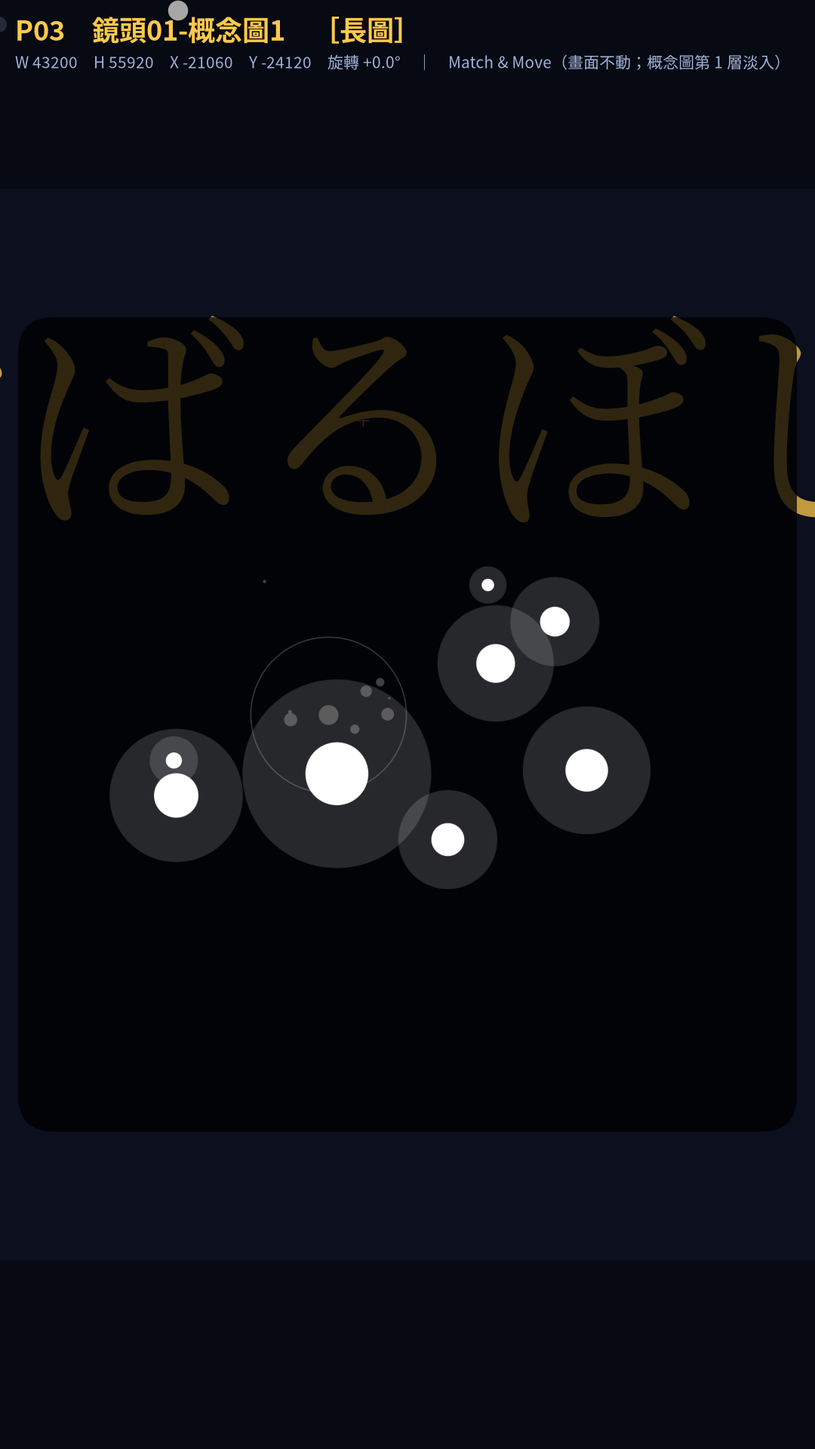
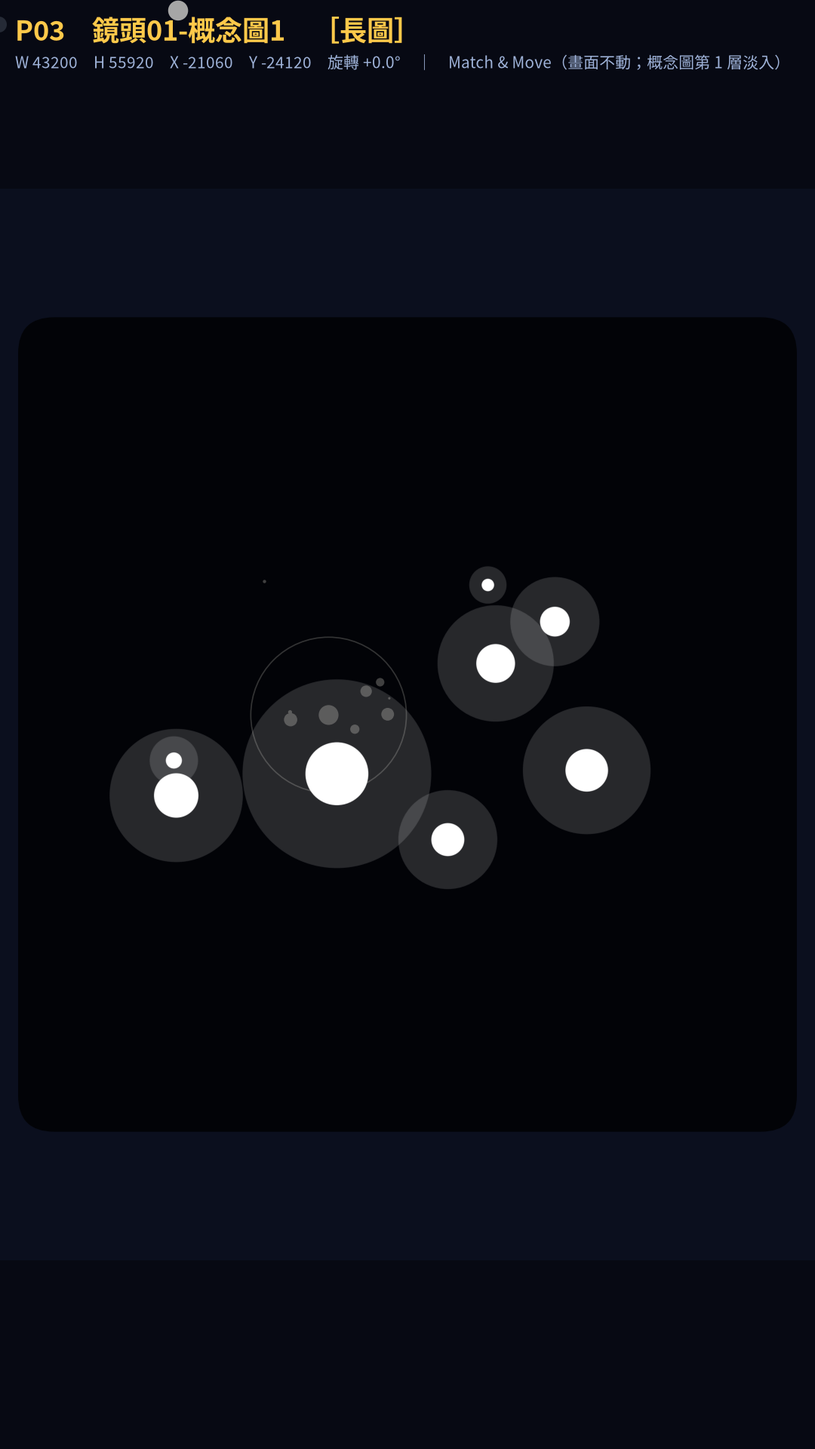
每集製作 SOP＋canva_ops.py：把長圖⇄北盤轉場、概念圖定格頁、Canva 操作變成固定流程
- 每集製作SOP.md：分工、repo 端生成順序、頁面結構規則（同鏡多頁、換組倒放、
  概念圖定格頁、每頁固定元素）、Claude 的 Canva 操作順序與連接器限制、
  存檔後手工收尾、每集檢查表
- canva_ops.py：由 Canva頁面參數.json＋媒體ID.json 產生每頁 edit-design 操作
- A-05_Canva媒體ID.json：本集已匯入的圖層／山／背景／概念圖 media id
- gen_canva_pages：概念圖頁不放星名標籤
- 使用說明：長圖⇄北盤回程改為倒放，指向 SOP

Claude-Session: https://claude.ai/code/session_01StZzE6tWpXcy8oYxpE6GNa

diff --git a/02_製作流程SOP/canva_ops.py b/02_製作流程SOP/canva_ops.py
@@ -1,0 +1,122 @@
+# -*- coding: utf-8 -*-
+"""萬國星空｜把 {EP}_Canva頁面參數.json 轉成 Canva 連接器（edit-design）的操作清單
+
+給 Claude 用：每一頁輸出一批 operations，照順序送進 edit-design 即可。
+媒體 ID 記在 05_素材/{集}/_v4大畫布/{EP}_Canva媒體ID.json（上傳一次、之後都讀這份）：
+
+  {"long": [L1..L4 的 media id], "north": [...], "south": [...],
+   "mountain": "MAD4KTwSGtw", "background": "MAHWs5D_MpY",
+   "concept": {"C-A05-01_六連星_星點層_透明.png": "MAHW...", ...}}
+
+用法：
+  python3 canva_ops.py A-05 --pages 3,4,5 --ids 3=PBxxx,4=PByyy    # 印出這幾頁的 ops（JSON）
+  python3 canva_ops.py A-05 --list                                  # 列出頁序＋每頁要放什麼
+
+注意（Canva 連接器的脾氣，見 每集製作SOP.md 五）：
+  - insert_fill 放山的剪影後，Canva 會把內圖框多裁 1px；要再送一次 crop_media（mountain_crop）
+  - update_fill 換圖後內圖框會被放大；要再送一次 crop_media（fill_crop）
+  - add_text 之後要用回傳的 locator 再送 format_text（label_format）
+"""
+import os, sys, csv, json, glob, argparse, unicodedata
+
+HERE = os.path.dirname(os.path.abspath(__file__))
+MOUNT = dict(left=-212.30305796440007, top=1622.4420974142777,
+             width=1939.0832424885327, height=300.5579025857226)   # 團隊模板的山（全集共用）
+LABEL_MIN, LABEL_MAX = 36, 96          # 原生標籤字級上下限（大特寫時標籤會算到幾百 px）
+
+
+def folder(ep):
+    base = os.path.dirname(HERE)
+    hit = glob.glob(os.path.join(base, "05_素材", "*", "_v4大畫布", f"{ep}_畫布資訊.json"))
+    if not hit:
+        sys.exit(f"找不到 {ep} 的 _v4大畫布")
+    return os.path.dirname(hit[0])
+
+
+def text_w(t, f):
+    return sum(1.0 if unicodedata.east_asian_width(c) in "WF" else 0.62 for c in t) * f + 0.6 * f
+
+
+def page_ops(pg, pid, media, labels=()):
+    """一頁的完整 ops：背景 → 天空四層 → 山 → 原生標籤 → 概念圖框 → 概念圖 → 備註"""
+    grp = {"長圖": "long", "北盤": "north", "南盤": "south"}[pg["group"]]
+    ops = [{"type": "update_fill", "locator_id": pid, "asset_type": "image",
+            "asset_id": media["background"], "alt_text": "背景漸層"}]
+    for i, a in enumerate(media[grp], 1):
+        ops.append({"type": "insert_fill", "page_id": pid, "asset_type": "image", "asset_id": a,
+                    "alt_text": f"{pg['group']} L{i}", "left": pg["left"], "top": pg["top"],
+                    "width": pg["width"], "height": pg["height"], "rotation": pg["rotation"]})
+    ops.append({"type": "insert_fill", "page_id": pid, "asset_type": "image",
+                "asset_id": media["mountain"], "alt_text": "山的剪影", **MOUNT})
+    for lb in labels:
+        f = min(max(int(lb["字級px"]), LABEL_MIN), LABEL_MAX)
+        X, Y = int(lb["中心X px"]), int(lb["中心Y px"])
+        w = round(text_w(lb["文字"], f))
+        if X - w / 2 < -0.3 * w or X + w / 2 > 1080 + 0.3 * w:     # 大半在畫面外就不放
+            continue
+        ops.append({"type": "add_text", "page_id": pid, "text": lb["文字"],
+                    "left": X - w / 2, "top": Y - 0.6 * f, "width": w})
+    ov = pg.get("overlay") or []
+    if ov and pg.get("panel"):
+        P = pg["panel"]
+        h = round(P["height"], 1)
+        ops.append({"type": "insert_shape", "page_id": pid, "left": P["left"],
+                    "top": round(P["top"], 1), "width": P["width"], "height": h,
+                    "path": f"M0 0H{P['width']}V{h}H0Z", "view_box_width": P["width"],
+                    "view_box_height": h, "color": P["color"], "opacity": P["opacity"],
+                    "corner_rounding": P["radius"], "stroke_weight": 0})
+    for o in ov:
+        ops.append({"type": "insert_fill", "page_id": pid, "asset_type": "image",
+                    "asset_id": media["concept"][o["file"]], "alt_text": o["file"][:-4],
+                    "left": o["left"], "top": o["top"], "width": o["width"], "height": o["height"]})
+    note = [pg["title"], f"圖層組：{pg['group']}｜W {pg['width']:.0f} H {pg['height']:.0f} "
+                         f"X {pg['left']:.0f} Y {pg['top']:.0f} 旋轉 {pg['rotation']:+.1f}°",
+            f"與上一頁：{pg.get('trans', '')}"]
+    if pg.get("notes"):
+        note.append("旁白：" + pg["notes"])
+    if ov:
+        note.append("概念圖：" + "＋".join(o["file"].replace("_透明.png", "") for o in ov))
+    ops.append({"type": "replace_speaker_notes", "page_id": pid, "notes": "\n".join(note)})
+    return ops
+
+
+def mountain_crop(locator):
+    return {"type": "crop_media", "locator_id": locator, "left": 0, "top": 0,
+            "width": MOUNT["width"], "height": MOUNT["height"]}
+
+
+def fill_crop(locator, width, height):
+    return {"type": "crop_media", "locator_id": locator, "left": 0, "top": 0,
+            "width": width, "height": height}
+
+
+def label_format(locator, size, color):
+    return {"type": "format_text", "locator_id": locator,
+            "formatting": {"font_size": min(max(int(size), LABEL_MIN), LABEL_MAX),
+                           "color": color, "text_align": "center", "line_height": 1.2}}
+
+
+if __name__ == "__main__":
+    ap = argparse.ArgumentParser()
+    ap.add_argument("ep")
+    ap.add_argument("--pages", default="")
+    ap.add_argument("--ids", default="", help="頁=Canva page id，逗號分隔")
+    ap.add_argument("--list", action="store_true")
+    a = ap.parse_args()
+    d = folder(a.ep)
+    pages = {p["page"]: p for p in json.load(open(os.path.join(d, f"{a.ep}_Canva頁面參數.json"),
+                                                 encoding="utf-8"))}
+    if a.list:
+        for n, p in pages.items():
+            ov = "＋".join(o["file"] for o in p.get("overlay") or [])
+            print(n, p["title"], p["group"], p.get("trans", ""), ov)
+        sys.exit()
+    media = json.load(open(os.path.join(d, f"{a.ep}_Canva媒體ID.json"), encoding="utf-8"))
+    labs = list(csv.DictReader(open(os.path.join(d, f"{a.ep}_逐頁標籤座標.csv"),
+                                    encoding="utf-8-sig")))
+    ids = dict(kv.split("=") for kv in a.ids.split(",") if kv)
+    out = {}
+    for n in [int(x) for x in a.pages.split(",") if x]:
+        out[n] = page_ops(pages[n], ids.get(str(n), f"<page {n}>"), media,
+                          [lb for lb in labs if int(lb["頁"]) == n])
+    print(json.dumps(out, ensure_ascii=False))

diff --git a/02_製作流程SOP/gen_canva_pages.py b/02_製作流程SOP/gen_canva_pages.py
@@ -301,6 +301,8 @@ class Pages:
         """本頁要開的標籤層：一頁兩用時取下一鏡；鏡頭最後一格可用 labels_end 換層"""
         if pg.get("transition"):
             return []
+        if pg.get("overlay_files"):               # 概念圖頁不放星名：半透明框會透出來、和圖上的字打架
+            return []
         if pg.get("labels_from") and not pg.get("shot_next"):
             return Pages.label_names(pg["labels_from"])
         sh = pg.get("shot_next") or pg["shot"]

diff --git a/02_製作流程SOP/每集製作SOP.md b/02_製作流程SOP/每集製作SOP.md
@@ -1,0 +1,118 @@
+# 萬國星空｜每集製作 SOP（A-05 起適用，之後每一集照做）
+
+> 一句話：**先把素材、腳本、逐字稿在 repo 裡生成優化版 → 產生 Canva 逐頁表 → Claude 在 Canva 排頁 → 你看預覽說「存檔」→ 你做最後三件手工。**
+> 表格欄位怎麼讀、手動照表做頁：見 `Canva逐頁製作表_使用說明.md`。這份是「流程＋規則＋檢查表」。
+
+---
+
+## 零、分工與帳號
+
+| 誰 | 做什麼 |
+|---|---|
+| 你（學校帳號） | 在學校帳號把**上一集** Make a copy，命名「A-0X 集名」，分享給私人帳號（kimjoo2104） |
+| Claude（私人帳號） | 素材／腳本／逐字稿 → 逐頁表 → Canva 排頁 → 預覽 |
+| 你 | 看預覽，說「存檔」；然後做「六、手工收尾」 |
+
+- 複製來的設計檔：**保留「下集見」「追蹤我們」「參考文獻」**，其餘上一集的頁都要換掉。連接器不能刪頁 → Claude 把用不到的舊頁集中移到最後，你在格狀檢視一次選取刪除。
+- 學校帳號上傳的素材私人帳號讀不到名稱，但**插入照樣可以**；真的讀不到就由 Claude 從 repo 公開連結重新匯入。
+
+## 一、repo 端：生成優化版素材、腳本、逐字稿（每集都做，做完才動 Canva）
+
+1. **資料核對**：`07_資料來源/` 的文化 CSV（原文、拼音、英文、中譯）先查一遍翻譯；錯的直接改 CSV 與 `01_星座連線筆畫.csv`，後面的腳本、標籤都從這裡讀。
+2. **逐字稿 v2**：`04_腳本庫/{EP}-…-逐字稿-v2.md`，分鏡表一列一鏡：`| **01** Z | 秒 | 旁白 | 用檔／圖層 | 動作 |`。字數 ≤ 4.5 字/秒。
+3. **星圖素材**：`make_{ep}_v4.py` → 大畫布（長圖）L1–L4…、北盤／南盤圖層組、`{EP}_鏡頭清單.json`（每鏡 frames、kind：Z/S/T/R）。
+   跑 `check_disc_align.py` 確認「長圖上的北盤」和「北盤圖層組」逐點重疊（這是無縫換組的前提）。
+4. **標籤／旁白**：`make_{ep}_labels.py`（或寫在 make_v4 裡）→ `{EP}_標籤資料.json`，鏡頭清單補 `vo`、`labels`、`overlay`、`overlay_layers`、`card`。
+5. **概念圖**：`make_{ep}_diagrams.py` → `05_素材/{集}/_概念圖/`。方形分層圖（`…_星點層_透明.png`…）或 9:16 圖卡（`…_圖卡.png`）。**生成後一定要看預覽圖**：標籤互相疊字、壓到星點都要修（A-05 的六連星、キトラ內規就是這樣抓到的）。
+6. **逐頁表**：`gen_canva_pages.py {EP}` → 逐頁製作表 csv/md、`Canva頁面參數.json`、逐頁標籤座標、描圖紙。
+7. commit＋push 到工作分支（Canva 從 GitHub raw 連結匯入素材，所以要先推上去）。
+
+## 二、頁面結構規則（gen_canva_pages 會自動做；手動排時照這個）
+
+### 1. 同一鏡頭可以不只兩頁
+- 基本是「鏡頭NN開始」「鏡頭NN結束」，兩頁之間 Match & Move。上一鏡結束＝下一鏡開始就共用一頁（頁名用「＝」）。
+- Canva 單次轉場最長 2.5 秒：移動太長時 `--seg 2.5` 自動插「-中1、-中2」。
+- **畫面不動的中間頁＝定格頁**，用來放概念圖（見 3）。
+
+### 2. 長圖 ⇄ 北盤（不能讓觀眾看出換檔）
+```
+去程：…長圖（中心）→ 沿走廊往上 → 長圖停在北極（盤心置中）
+      →「長圖轉北盤N」：同一格、只把長圖換成北盤（轉場：無）→ 北盤開始轉
+回程：北盤最後一格 →「北盤轉長圖N-歸位」盤轉回 0°、回到換組那一格（Match & Move）
+      →「北盤轉長圖N」：同一格、只把北盤換回長圖（轉場：無）
+      →「北盤轉長圖N-下移」沿走廊往下回到出發點（＝去程倒放）→ 繼續長圖上的鏡頭
+```
+- 換組那兩頁畫面逐點相同（長圖上的北盤＝北盤圖層組），**轉場一定設「無」**：用 Match & Move 淡入淡出兩張相同的圖，中途星星會暗一下。
+- 換組頁的前一頁如果有概念圖，要先有「-概念圖收」把概念圖收掉，再換組。
+- 出發點＝往上那一鏡（T）的起格；北盤那段若不是從走廊上來，就先插「-回中心」「-上移」。
+
+### 3. 概念圖＝定格頁
+- 鏡頭有 `overlay` 就在該鏡**結束頁後**插：「鏡頭NN-概念圖1、2、3…」（分層圖一頁多疊一層）→「鏡頭NN-概念圖收」（淡出）。`overlay_at: "start"` 改插在開始頁後。
+- 天空完全不動（同一格、同圖層），只有概念圖在變 → Match & Move 只會讓概念圖淡入／淡出。
+- 方形分層圖：寬 1032、左 24、內容垂直置中；後面墊**團隊同款半透明黑底圓角框**（#000000、不透明度 75%、圓角 48），框只包住內容＋40px 留白。
+- 9:16 圖卡：滿版 1080×1920，不加框。
+- **概念圖頁不放星名標籤**（半透明框會透出字，和圖上的字打架）；「收」頁恢復該格的標籤。
+- 字卡（`card`）目前寫在備註欄，照韓國集的做法用原生文字＋同款黑框做。
+
+### 4. 每一頁都一樣的東西
+- 背景：團隊漸層圖（media `MAHWs5D_MpY`），以頁面背景填入。
+- **山的剪影每一頁都要有（包括北盤頁）**，位置 left −212.30、top 1622.44、1939.08×300.56，內圖框 0/0/1939.08×300.56（和團隊模板一樣）；換組時山才不會跳。
+- 山的顏色：#343434→#000000、#4f4f4f→#404040。
+- 標籤一律原生打字（SVG 標籤在 Canva 解析度不夠）；字級限制在 36–96 px；大半在畫面外的不放。
+
+## 三、Claude 在 Canva 的操作順序
+
+1. `read-design` 開 transaction，讀 page_metadata＋presenter_notes 找出舊頁、要保留的頁。
+2. 素材匯入：`upload-asset-from-url`，用 **commit SHA 的 raw 連結**（分支連結有 CDN 快取，剛推的新版會拿到舊檔）。媒體 ID 寫進 `{EP}_Canva媒體ID.json`。
+3. `add_page` 一次加齊（新頁會加在最後）→ 讀回新頁 ID。
+4. 每頁用 `canva_ops.py` 產生的 ops：背景 → 天空四層 → 山 → 標籤 → 概念圖框 → 概念圖 → 備註。
+5. 補三個連接器的脾氣（下一批 ops 順便送）：
+   - 山 `insert_fill` 後內圖框會多裁 1px → `crop_media` 回 0/0/1939.08×300.56；
+   - `update_fill` 換圖後內圖框會被放大 → `crop_media` 回原尺寸；
+   - `add_text` 後用回傳的 locator 送 `format_text`（字級、顏色、置中、行高 1.2）。
+6. `reorder_page` 依逐頁表放到正確位置；用 `design_content` 讀回來比對頁序（presenter_notes 在 transaction 裡可能是舊的，別用它比）。
+7. 看縮圖：換組前後兩頁要一模一樣；概念圖不疊字；山的位置一致。
+8. 給你預覽 → **你說「存檔」才 commit**。
+
+連接器做不到、要你手動的：刪頁、改頁面標題、設定轉場種類與秒數、雙色 SVG 換色（recolor 只能單色）、換品牌字型。
+
+## 四、改過的東西怎麼重跑
+
+```bash
+cd 02_製作流程SOP
+python3 make_a05_v4.py            # 星圖圖層、鏡頭清單（改鏡頭 frames 時）
+python3 make_a05_labels.py        # 標籤、旁白、概念圖欄位
+python3 make_a05_diagrams.py      # 概念圖
+python3 gen_canva_pages.py A-05   # 逐頁表＋描圖紙
+python3 canva_ops.py A-05 --list  # 看頁序與每頁要放什麼
+```
+重跑後 SVG 可能只有 matplotlib 的 id 變動：`git ls-files -m -z | grep -z '標籤.*\.svg$' | xargs -0 git checkout --` 還原。
+
+## 五、Canva 連接器備忘
+
+| 情況 | 做法 |
+|---|---|
+| 不能刪頁 | 舊頁移到最後，請你刪 |
+| SVG 不能 update_fill（只收點陣圖） | 刪元素再 insert_fill；PNG 可以 update_fill，但要再 crop_media |
+| recolor_element 只能單色 | 雙色的山交給你用「全部變更」 |
+| 分支 raw 連結有快取 | 用 commit SHA 連結 |
+| 大型讀取超過上限會存成檔案 | 用 python 解析存下來的 JSON |
+| 儲存 | 一定要你在對話中說「存檔」 |
+
+## 六、你存檔後的手工收尾（每集 5 分鐘）
+
+1. **字型**：選任一個 Claude 打的標籤 → 字型換成品牌字 → 「全部變更」。
+2. **山的顏色**：選一個灰色的山 → 顏色面板把 #343434 改 #000000、#4f4f4f 改 #404040 → 各按一次「全部變更」。
+3. **轉場**：照逐頁表「與上一頁」欄設定：換組頁（長圖轉北盤、北盤轉長圖）＝**無**；其餘 Match & Move；概念圖頁時間跟旁白對齊。
+4. 刪掉最後面上一集留下的舊頁；頁名如果還是舊的（例如「鏡頭01結束＝鏡頭02開始」）順手改掉。
+
+## 七、每集檢查表
+
+- [ ] 翻譯先核對過（CSV、逐字稿、標籤同一個來源）
+- [ ] check_disc_align 通過；長圖轉北盤前後兩頁縮圖一模一樣
+- [ ] 回程有 歸位 → 換回長圖 → 下移（倒放），不是直接硬切
+- [ ] 概念圖都在對的鏡頭、一層一頁、有「收」；框內沒有疊字、框外沒有被擋住的主角星
+- [ ] 每頁都有山、背景漸層；北盤頁也有山
+- [ ] 開頭字卡、下集見改成本集；追蹤我們、參考文獻保留
+- [ ] 舊頁已移到最後
+- [ ] 預覽給你看過，你說了「存檔」

diff --git a/05_素材/A-07_蒙古/_v4大畫布/A-07_Canva逐頁製作表.md b/05_素材/A-07_蒙古/_v4大畫布/A-07_Canva逐頁製作表.md
@@ -20,13 +20,13 @@
 | 9 | 鏡頭05開始 | 長圖 | 6703.4 | 8677.2 | -3413.8 | -763.9 | 0.0 | 無（硬切，新構圖） | L1-銀河、L2-星點、L3-經緯線、L4-星座連線、L7-主角星白點、L13-標籤-生肖-循環版 | 蒙古人還把十二生肖，掛上了這七顆星。從勺口的天樞開始：鼠、牛、虎、兔、龍、蛇，一路數到斗柄尾端的搖光——馬。今年二〇二六是馬年，今年出生的孩子，本命星就是搖光。 |
 | 10 | 鏡頭05結束＝鏡頭06開始 | 長圖 | 7476.9 | 9678.5 | -3870.0 | -962.8 | 0.0 | Match & Move（24.0 秒） | L1-銀河、L2-星點、L3-經緯線、L4-星座連線、L7-主角星白點、L13-標籤-生肖-循環版 | 明年羊年，版本就分家了。Stellarium 記的是從頭再數：羊回到天樞。蒙古文的《北斗七星經》，還有今天蒙古人拜星的說法，卻是折返：羊在開陽、猴在玉衡，一路退回去，豬落在天璇。 |
 | 11 | 鏡頭06結束 | 長圖 | 7476.9 | 9678.5 | -3870.0 | -962.8 | 0.0 | Match & Move（20.0 秒） | L1-銀河、L2-星點、L3-經緯線、L4-星座連線、L7-主角星白點、L14-標籤-生肖-折返版 |  |
-| 12 | 鏡頭06-概念圖 | 長圖 | 7476.9 | 9678.5 | -3870.0 | -962.8 | 0.0 | Match & Move（畫面不動；概念圖淡入） | L1-銀河、L2-星點、L3-經緯線、L4-星座連線、L7-主角星白點、L14-標籤-生肖-折返版 |  |
+| 12 | 鏡頭06-概念圖 | 長圖 | 7476.9 | 9678.5 | -3870.0 | -962.8 | 0.0 | Match & Move（畫面不動；概念圖淡入） | L1-銀河、L2-星點、L3-經緯線、L4-星座連線、L7-主角星白點 |  |
 | 13 | 鏡頭06-概念圖收 | 長圖 | 7476.9 | 9678.5 | -3870.0 | -962.8 | 0.0 | Match & Move（畫面不動；概念圖淡出） | L1-銀河、L2-星點、L3-經緯線、L4-星座連線、L7-主角星白點、L14-標籤-生肖-折返版 |  |
 | 14 | 鏡頭07開始 | 長圖 | 6942.9 | 8987.1 | -3555.0 | -825.5 | 0.0 | 無（硬切，新構圖） | L1-銀河、L2-星點、L3-經緯線、L4-星座連線、L7-主角星白點、L14-標籤-生肖-折返版、L15-標籤-本命星君 | 這個折返版，你可能在台灣廟裡見過。禮斗、點本命星燈，查的就是同一張表：屬鼠拜貪狼，屬馬拜破軍。同一張表也寫在佛教的《北斗七星延命經》裡；唐代以後它傳到日本、韓國，也譯成了藏文和蒙古文。 |
 | 15 | 鏡頭07結束 | 長圖 | 7476.9 | 9678.5 | -3870.0 | -962.8 | 0.0 | Match & Move（20.0 秒） | L1-銀河、L2-星點、L3-經緯線、L4-星座連線、L7-主角星白點、L14-標籤-生肖-折返版、L15-標籤-本命星君 |  |
 | 16 | 鏡頭08開始 | 長圖 | 6703.4 | 8677.2 | -3413.8 | -763.9 | 0.0 | 無（硬切，新構圖） | L1-銀河、L2-星點、L3-經緯線、L4-星座連線、L7-主角星白點、L10-標籤-繁中 | 但這七兄弟，其實不是一家人。量過距離：中間五顆都在八十光年上下，一起誕生、朝同一個方向走；天樞一百二十三光年、搖光一百零四光年，只是剛好路過。大約五萬年後，這把勺子就認不出來了。 |
 | 17 | 鏡頭08結束 | 長圖 | 7776.0 | 10065.6 | -4046.4 | -1039.8 | 0.0 | Match & Move（22.0 秒） | L1-銀河、L2-星點、L3-經緯線、L4-星座連線、L7-主角星白點、L10-標籤-繁中 |  |
-| 18 | 鏡頭08-概念圖 | 長圖 | 7776.0 | 10065.6 | -4046.4 | -1039.8 | 0.0 | Match & Move（畫面不動；概念圖淡入） | L1-銀河、L2-星點、L3-經緯線、L4-星座連線、L7-主角星白點、L10-標籤-繁中 |  |
+| 18 | 鏡頭08-概念圖 | 長圖 | 7776.0 | 10065.6 | -4046.4 | -1039.8 | 0.0 | Match & Move（畫面不動；概念圖淡入） | L1-銀河、L2-星點、L3-經緯線、L4-星座連線、L7-主角星白點 |  |
 | 19 | 鏡頭08-概念圖收 | 長圖 | 7776.0 | 10065.6 | -4046.4 | -1039.8 | 0.0 | Match & Move（畫面不動；概念圖淡出） | L1-銀河、L2-星點、L3-經緯線、L4-星座連線、L7-主角星白點、L10-標籤-繁中 |  |
 | 20 | 鏡頭09開始 | 長圖 | 4860.0 | 6291.0 | -2137.5 | -397.8 | 0.0 | 無（硬切，新構圖） | L1-銀河、L2-星點、L3-經緯線、L4-星座連線、L7-主角星白點、L17-標籤-跨文化原文、L18-標籤-跨文化中譯 | 同一把勺子，換片土地就換了故事。西伯利亞看見駝鹿，因紐特看見馴鹿，阿拉伯看見抬著棺架的女兒們，北歐看見一輛車。黑腳族和薩丁尼亞，看見的也是七兄弟。 |
 | 21 | 鏡頭09結束 | 長圖 | 5254.1 | 6801.1 | -2354.6 | -507.9 | 0.0 | Match & Move（18.0 秒） | L1-銀河、L2-星點、L3-經緯線、L4-星座連線、L7-主角星白點、L17-標籤-跨文化原文、L18-標籤-跨文化中譯 |  |

diff --git a/05_素材/A-05_日本/_v4大畫布/A-05_Canva逐頁製作表.md b/05_素材/A-05_日本/_v4大畫布/A-05_Canva逐頁製作表.md
@@ -11,9 +11,9 @@
 |---:|---|---|---:|---:|---:|---:|---:|---|---|---|
 | 1 | 鏡頭01開始 | 長圖 | 27771.4 | 35948.6 | -13345.7 | -15162.9 | 0.0 | （第一頁） | L1-銀河、L2-星點、L3-經緯線、L4-星座連線、L7-標籤-和名 | 你今天在路上一定看過這六顆星。它是日本現存最古老的星名，寫在一千一百年前的字典裡，現在印在車頭上——すばる。昴。同一片星空，日本人把它，叫回自己的話。 |
 | 2 | 鏡頭01結束 | 長圖 | 43200.0 | 55920.0 | -21060.0 | -24120.0 | 0.0 | Match & Move（16.0 秒） | L1-銀河、L2-星點、L3-經緯線、L4-星座連線、L7-標籤-和名 |  |
-| 3 | 鏡頭01-概念圖1 | 長圖 | 43200.0 | 55920.0 | -21060.0 | -24120.0 | 0.0 | Match & Move（畫面不動；概念圖第 1 層淡入） | L1-銀河、L2-星點、L3-經緯線、L4-星座連線、L7-標籤-和名 |  |
-| 4 | 鏡頭01-概念圖2 | 長圖 | 43200.0 | 55920.0 | -21060.0 | -24120.0 | 0.0 | Match & Move（畫面不動；概念圖第 2 層淡入） | L1-銀河、L2-星點、L3-經緯線、L4-星座連線、L7-標籤-和名 |  |
-| 5 | 鏡頭01-概念圖3 | 長圖 | 43200.0 | 55920.0 | -21060.0 | -24120.0 | 0.0 | Match & Move（畫面不動；概念圖第 3 層淡入） | L1-銀河、L2-星點、L3-經緯線、L4-星座連線、L7-標籤-和名 |  |
+| 3 | 鏡頭01-概念圖1 | 長圖 | 43200.0 | 55920.0 | -21060.0 | -24120.0 | 0.0 | Match & Move（畫面不動；概念圖第 1 層淡入） | L1-銀河、L2-星點、L3-經緯線、L4-星座連線 |  |
+| 4 | 鏡頭01-概念圖2 | 長圖 | 43200.0 | 55920.0 | -21060.0 | -24120.0 | 0.0 | Match & Move（畫面不動；概念圖第 2 層淡入） | L1-銀河、L2-星點、L3-經緯線、L4-星座連線 |  |
+| 5 | 鏡頭01-概念圖3 | 長圖 | 43200.0 | 55920.0 | -21060.0 | -24120.0 | 0.0 | Match & Move（畫面不動；概念圖第 3 層淡入） | L1-銀河、L2-星點、L3-經緯線、L4-星座連線 |  |
 | 6 | 鏡頭01-概念圖收＝鏡頭02開始 | 長圖 | 43200.0 | 55920.0 | -21060.0 | -24120.0 | 0.0 | Match & Move（畫面不動；概念圖淡出） | L1-銀河、L2-星點、L3-經緯線、L4-星座連線 | 但要從一座墳墓講起。奈良縣明日香村，キトラ古墳，七世紀末。一九八三年，纖維鏡從盜掘孔照見北壁的玄武。一九九八年，相機再進去一次，才看見天花板上是一整片星空——而且是中國的星空。 |
 | 7 | 鏡頭02結束＝鏡頭03開始 | 長圖 | 8452.2 | 10940.9 | -3686.1 | -3993.9 | 0.0 | Match & Move（18.0 秒） | L1-銀河、L2-星點、L3-經緯線、L4-星座連線 | 三百六十顆以上的金箔星點，直徑六公釐；七十四個星官用朱線連起來；外面四個同心圓：內規、赤道、外規、黃道。東邊一枚金的太陽，西邊一枚銀的月亮。 |
 | 8 | 鏡頭03結束 | 長圖 | 8100.0 | 10485.0 | -3510.0 | -1873.0 | 0.0 | Match & Move（16.0 秒） | L1-銀河、L2-星點、L3-經緯線、L4-星座連線 |  |

diff --git a/02_製作流程SOP/Canva逐頁製作表_使用說明.md b/02_製作流程SOP/Canva逐頁製作表_使用說明.md
@@ -31,7 +31,7 @@
 | 圖層組 | 這頁用「長圖」（大畫布群組）還是「北盤／南盤」群組 |
 | 寬 W／高 H／X／Y | 選取群組 → 位置 → **直接填這四個數字**（X/Y＝左上角） |
 | 旋轉° | 盤圖層組才有。北盤負角＝逆時針＝時間往前 |
-| 與上一頁 | `Match & Move（N 秒）`＝同一鏡頭內的移動；`無（硬切）`＝換鏡頭；`同框硬切`＝長圖轉北盤那一頁 |
+| 與上一頁 | `Match & Move（N 秒）`＝同一鏡頭內的移動；`Match & Move（轉場，≤2.5 秒）`＝鏡頭之間的銜接；`無（硬切）`＝換鏡頭；`無（同框硬切）`＝長圖⇄北盤換組那一頁 |
 | 留下的圖層 | 這頁要保留哪幾層；**其餘的連線層／標籤層在這頁刪掉**（以前靠記憶，現在照表） |
 | 地平線北點 Y | 有地平線的頁：把山的剪影上緣放在這個 Y |
 | 旁白（本頁起播） | 這頁開始要配的逐字稿，給打中文字幕的組員 |
@@ -42,7 +42,8 @@
 1. 做到表上「長圖轉北盤」的前一頁（例：A-07 的 P24，金樁置中、fov 48）。
 2. 複製這一頁 → 新頁刪掉長圖群組、貼上北盤群組 → 填表上這一頁的 W/H/X/Y。
 3. 兩頁之間**不設轉場**。畫面內容逐點相同（`check_disc_align.py` 驗證過：盤本體對不上 0 個），觀眾看不出換了檔。
-4. 若表上寫「北盤→長圖不同框」，代表下一鏡是新構圖，直接硬切，**不用倒轉回去**；只有在表上寫「若要同框接回」時，才用你們的「複製、倒序、轉回 0°」做法。
+4. 回程一律倒放：「北盤轉長圖N-歸位」（盤轉回 0°、回到換組那一格）→「北盤轉長圖N」（同框換回長圖，轉場：無）→「北盤轉長圖N-下移」（往下回到出發點）→ 再 Match & Move 到下一鏡。表上都已排好頁，完整規則見 `每集製作SOP.md` 二-2。
+5. 概念圖用「定格頁」（畫面不動的中間頁）一層一層疊上去，最後「-概念圖收」淡出；見 `每集製作SOP.md` 二-3。
 
 ## 三、標籤：原生打字，照描圖對位
 
